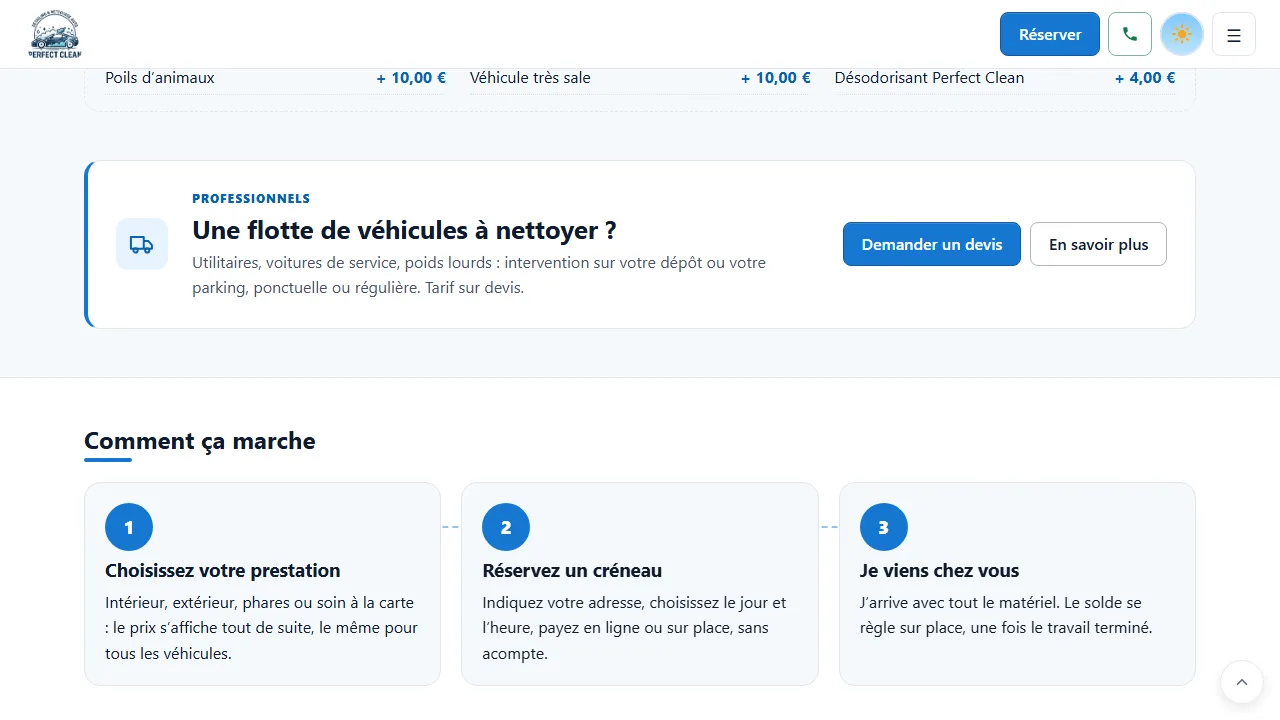
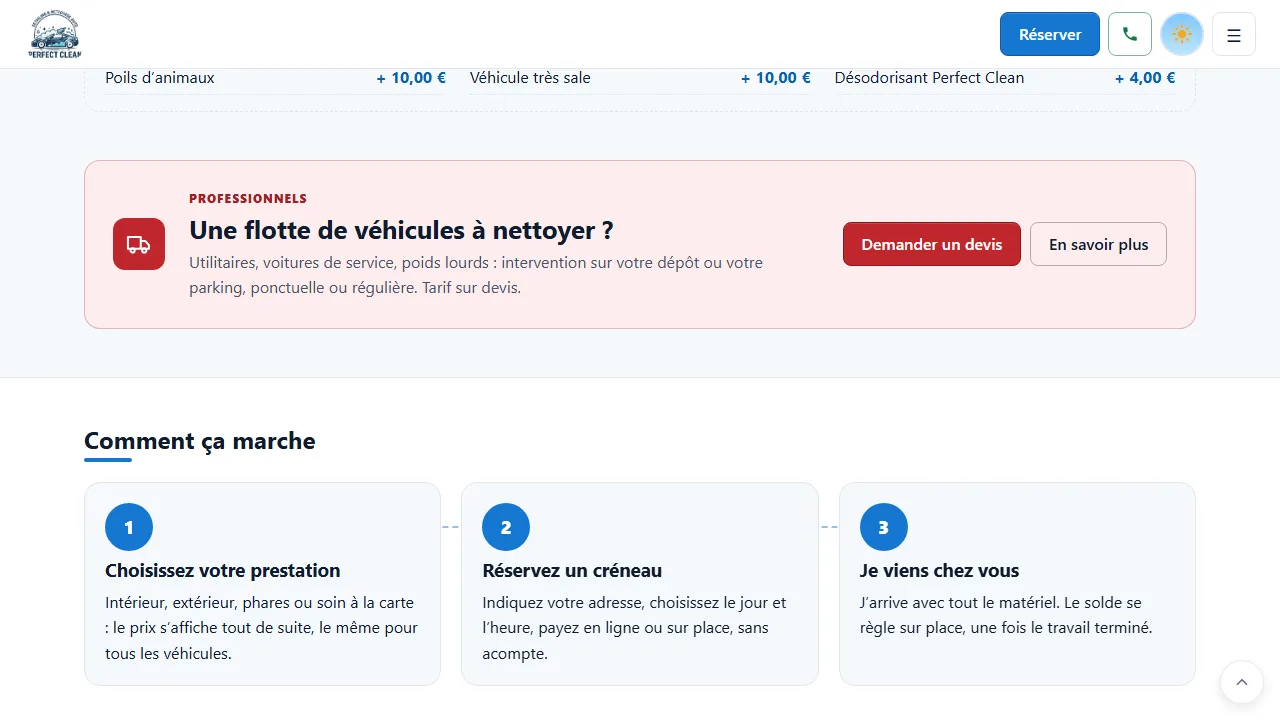
chore: capture Professionnels de Perfect Clean refaite (encart rouge)

Changed region(s): [[0.0625, 0.2139, 0.5938, 0.4583], [0.6562, 0.3056, 0.8125, 0.3972]]

diff --git a/docs/CHANGELOG.md b/docs/CHANGELOG.md
@@ -5,6 +5,7 @@
 - Perfect Clean mis à jour avec les nouveautés de la démo.
   - Neuf captures : accueil animé avec réservation directe, prestations, formule complète, abonnements, espace pro, encaissement par QR code, zone, fidélité, encart professionnels.
   - Résumé, solution et fonctionnalités complétés : abonnements prélevés, paiement sur place (carte, QR code, espèces, virement, chèque), formule complète, espace pro installable sur le téléphone, site modifiable par l'artisan.
+  - Capture « Professionnels » refaite : l'encart de la démo est maintenant rouge.
 
 ### Modifié (réalisations)
 - La démo de detailing auto devient « Perfect Clean ».

diff --git a/docs/journal/102-feature-maj-perfect-clean.md b/docs/journal/102-feature-maj-perfect-clean.md
@@ -17,6 +17,8 @@ Branche `feature/maj-perfect-clean` · 2026-11-16
   - accueil animé.
 - **Capture écartée** : la scène de l'intérieur, car l'image IA montre des gobelets d'une marque connue.
 
+- **Complément (`chore/capture-pro-rouge`)** : capture « Professionnels » refaite après le passage de l'encart en rouge sur la démo.
+
 ## À quoi ça sert
 Montrer aux prospects l'état actuel de la démo, la plus complète des réalisations.
 
